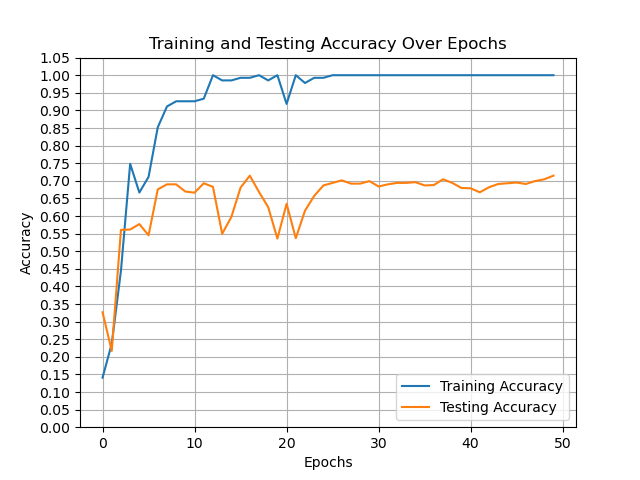
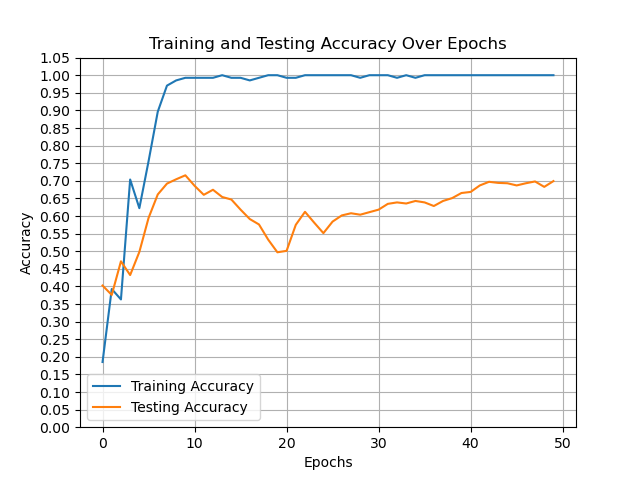
新增思路

diff --git a/env.py b/env.py
@@ -19,6 +19,8 @@ Project Description：
     # TODO: 重大发现：原始状态节点原始特征过稀疏 ，状态转移之后都为连续向量，导致动作选择单一，数据预处理或者状态转移归一化；
 
     # TODO: 设定的奖励目标为： 使用更少的 采样数量达到更好的准确率效果
+
+    # TODO： 更改状态转移测： 将经过聚合后的状态与训练集中其他节点状态进行特征比较，选择差异最小节点进行状态转移
 """
 import torch
 import random
@@ -27,7 +29,9 @@ import torch.nn as nn
 import torch.optim as optim
 import torch.nn.init as init
 import torch.nn.functional as F
+from scipy.spatial import cKDTree
 from sklearn.preprocessing import MinMaxScaler
+
 
 from dataset import load_data, Data
 
@@ -180,6 +184,7 @@ class Sage_env:
         self.weight_decay = weight_decay
         self.policy = policy
         self.processing_data()  # 进行数据处理
+        self.transfer_tree = cKDTree(self.features[self.idx_train])  # TODO: 用于计算转移状态最相似节点
         self.batch_size = len(self.idx_train)  # 为训练节点数量作为批次训练数量，同时也为 dqn 每次采样经验的数量
         self.past_performance = [0.0]  # 该两个变量用于计算前面的平均准确率，用于定义奖励
         self.baseline_experience = 5  # 过去五个批次
@@ -202,7 +207,7 @@ class Sage_env:
         self.reset_parameters()  # TODO: 是否应该重置模型参数，不重置环境验证集准确率更高，但是会为dqn学习到更好的拟合效果么
         # scr_index = np.random.choice(self.idx_train, int(len(self.idx_train)*0.1), replace=False)
         scr_index = self.idx_train
-        states = self.init_states[scr_index]  # 可以在状态初始化过程中随机加入高斯扰动用于模拟状态初始化的状态
+        states = self.init_states[scr_index]  # TODO：考虑在状态初始化过程中随机加入高斯扰动用于模拟状态初始化的轻微波动
         self.optimizer.zero_grad()
         return scr_index, states
 
@@ -218,6 +223,7 @@ class Sage_env:
     def step(self, actions, scr_index, dqn_train_tag=True):  # action：0~9 -> 采样数量 1~10
         done = False
         loss, accuracy, pred_rights = self.train(actions, scr_index)
+        print(loss)
         if not dqn_train_tag:  # 仅仅执行 指导 GNN 训练，仅返回 loss 不再进行额外运算
             return loss, accuracy
         # 在训练集上的分类损失达到 0.01 一下则设置为终止状态
@@ -226,7 +232,7 @@ class Sage_env:
         # dones = [done] * len(actions[0])
         sample_num = actions[0]  # 获取原始节点采样数量
         dones = [True if i == 1 else False for i in pred_rights]  # TODO: 终止标志也应该合理计入
-        next_states = self.state_transfer(actions, scr_index)  # 使用执行动作更新参数得到的网络得到下一阶段状态
+        next_states, trans_index = self.state_transfer(actions, scr_index)  # 使用执行动作更新参数得到的网络得到下一阶段状态
         val_acc = self.eval()  # 仅计算验证集准确率，用于选择合适的agent，所以验证集合内结点的选择应该具有代表测试集节点的能力
         baseline = np.mean(np.array(self.past_performance[-self.baseline_experience:]))
         self.past_performance.append(val_acc)
@@ -240,12 +246,21 @@ class Sage_env:
         rewards = [x + y + val_acc_performance for x, y in zip(train_acc_performance, sample_num_performance)]
         self.last_sample = sample_num  # 更新当前采样数量，应该一次训练一更新
         r = np.sum(np.array(rewards))  # 计算该轮次总计奖励
-        return next_states, rewards, dones, (val_acc, r)  # 返回平均准确率与平均奖励
+        return (next_states, trans_index), rewards, dones, (val_acc, r)  # 返回平均准确率与平均奖励
 
-    def state_transfer(self, actions, index):  # 执行聚合后的得到状态转移后的结果
-        _, next_states = self.model(actions, index)
+    def state_transfer(self, actions, src_index):  # 执行聚合后的得到状态转移后的结果
+        """
+        1， 最理想的方案就是将聚合之后的结合参数的新的节点特征作为经过简单处理作为新的状态，执行状态转移，
+        这新的1433维向量可以模拟整个数据集中的节点特征情况；这种方法导致
+        2， 在测试集合内找到通过 KNN 得到相近的节点特征及其索引作为下一阶段输入，这种方法导致训练到最后可选节点总趋于一致
+        """
+        _, next_states = self.model(actions, src_index)
         next_states = self.Feature_preprocessing(next_states)
-        return next_states
+        # TODO: 状态转移过程归纳到训练集之内，使用 最近邻机制 进行估计状态转移： 转移几轮过后，最近的几个节点总是趋于一致
+        distance, index = self.transfer_tree.query(next_states, k=1)  # 查询距离最近节点并返回索引
+        trans_index = self.idx_val[index]
+        next_states = self.init_states[trans_index]
+        return next_states, trans_index
 
     @staticmethod
     def Feature_preprocessing(node_feature):  # 对转移特征进行规范化处理：输入为 tensor 输出为 numpy
@@ -273,7 +288,7 @@ class Sage_env:
         with torch.no_grad():
             val_index = self.idx_val
             val_states = self.init_states[val_index]
-            val_actions = self.policy.predict_action_sequences_new(val_index, val_states, self)
+            val_actions = self.policy.predict_action_sequences(val_index, val_states, self)
             logits, _ = self.model(val_actions, val_index)
             preds = logits.argmax(dim=1)
             labels = torch.LongTensor(self.labels[val_index]).to(DEVICE)
@@ -285,7 +300,7 @@ class Sage_env:
         with torch.no_grad():  # 完全禁用梯度计算，提高模型推理速度
             test_index = self.idx_test
             test_states = self.init_states[test_index]
-            test_actions = self.policy.predict_action_sequences_new(test_index, test_states, self)  # 将自己作为环境输入进函数
+            test_actions = self.policy.predict_action_sequences(test_index, test_states, self)  # 将自己作为环境输入进函数
             logits, _ = self.model(test_actions, test_index)
             preds = logits.argmax(dim=1)
             labels = torch.LongTensor(self.labels[test_index]).to(DEVICE)

diff --git a/agent.py b/agent.py
@@ -148,13 +148,14 @@ class QAgent:
         # 执行一次智能体训练
         Cumulative_rewards = 0
         for _ in range(total_time_steps):  # 训练时间步  TODO:添加进度条并显示奖励
-            actions = self.predict_action_sequences_new(scr_index, states, env)  # 根据当前状态在q网络中形成最佳动作序列(已添加随机性)
-            next_states, rewards, dones, (val_acc, r) = env.step(actions, scr_index)  # 执行动作为多重列表
+            actions = self.predict_action_sequences(scr_index, states, env)  # 根据当前状态在q网络中形成最佳动作序列(已添加随机性)
+            (next_states, trans_index), rewards, dones, (val_acc, r) = env.step(actions, scr_index)  # 执行动作为多重列表
             transition = zip(states, actions[0], rewards, next_states, dones)  # 仅仅将第一层针对源节点采取的行动加入经验进行训练
             for ts in transition:
                 self.feed(ts)
             states = next_states  # 进行时间步 次的状态转移
-            print("reward :{}".format(r))
+            scr_index = trans_index
+            # print("reward :{}".format(r))
             Cumulative_rewards += r
         loss = self.train()
         return loss, rewards, (val_acc, Cumulative_rewards)  # Cumulative_rewards:执行一个批次动作得到的全部奖励
@@ -168,34 +169,16 @@ class QAgent:
         best_actions = np.argmax(q_values, axis=1)
         return best_actions  # 返回值为 np 数组 ，代表该批次中该层节点采样的邻居个数
 
-    def predict_action_sequences(self, index, states, env):  # 根据当前批量状态并基于ε-贪婪策略的动作选择机制，结合当前环境返回该状态下的最佳动作序列
-        actions_list = [[] for _ in range(self.Sage_num_layers)]
-        new_states = states  # 接收状态
-        epsilon = self.epsilons[min(self.total_t, self.epsilon_decay_steps - 1)]  # 设置随机探索率
-        for actions in actions_list:  # 对于每层的采样列表 该循环执行三次
-            action_probability = np.ones(self.max_sample_num, dtype=float) * epsilon / self.max_sample_num  # 0~9 的 np
-            best_action = self.eval_step(new_states)  # 返回值为 0~9 的一维数组
-            for a in best_action:  # 枚举该批次动作中的每一个动作，改变其选择概率
-                action_probability[a] += (1.0 - epsilon)  # TODO： 动作选取的还是不够随机,没有达到很好效果
-            action_probability = action_probability / action_probability.sum()
-            best_actions = np.random.choice(np.arange(len(action_probability)), p=action_probability, size=len(new_states))
-            actions.extend(best_actions)  # 批量添加列表元素
-            # 第一层结束,获取邻居采样结果用于第二阶段采样前准备
-            sample_result = env.model.sampling(index, best_actions)  # 针对索引列表内节点使用预测出来的最佳采样数量策略进行采样
-            new_states = env.init_states[sample_result]
-            index = sample_result  # 传递采样结果索引到下一层
-        return actions_list  # 改造返回最佳动作的多重列表
-
-    def predict_action_sequences_new(self, index, states, env):
+    def predict_action_sequences(self, index, states, env):
         actions_list = [[] for _ in range(self.Sage_num_layers)]
         new_states = states
-        # epsilon = self.epsilons[min(self.total_t, self.epsilon_decay_steps - 1)]  # 设置随机探索率衰减到0
-        epsilon = 0  # TODO：用于排查问题
+        epsilon = self.epsilons[min(self.total_t, self.epsilon_decay_steps - 1)]  # 设置随机探索率衰减到0
+        # epsilon = 0  # TODO：用于排查问题
         self.total_t += 1  # 衰减
         for actions_sub_list in actions_list:
             actions = self.eval_step(new_states)  # 返回一个批次的预测动作
             best_actions = [act if np.random.rand() > epsilon else np.random.randint(0, 10) for act in actions]
-            best_actions = [9 if np.random.rand() > epsilon else np.random.randint(0, 10) for act in actions]  # TODO： 用于测试，将动作全部设置成最大值或者最小值，看准确率是否发生变化
+            # best_actions = [5 if np.random.rand() > epsilon else np.random.randint(0, 10) for act in actions]  # TODO： 用于测试，将动作全部设置成最大值或者最小值，看准确率是否发生变化
             actions_sub_list.extend(best_actions)
             sample_result = env.model.sampling(index, best_actions)  # 针对索引列表内节点使用预测出来的最佳采样数量策略进行采样
             new_states = env.init_states[sample_result]  # TODO: 为什么每次将采样结果输入的新状态后得到的新动作都是一样的值？？因为新状态变为稀疏矩阵了！！！！！！！！！！
